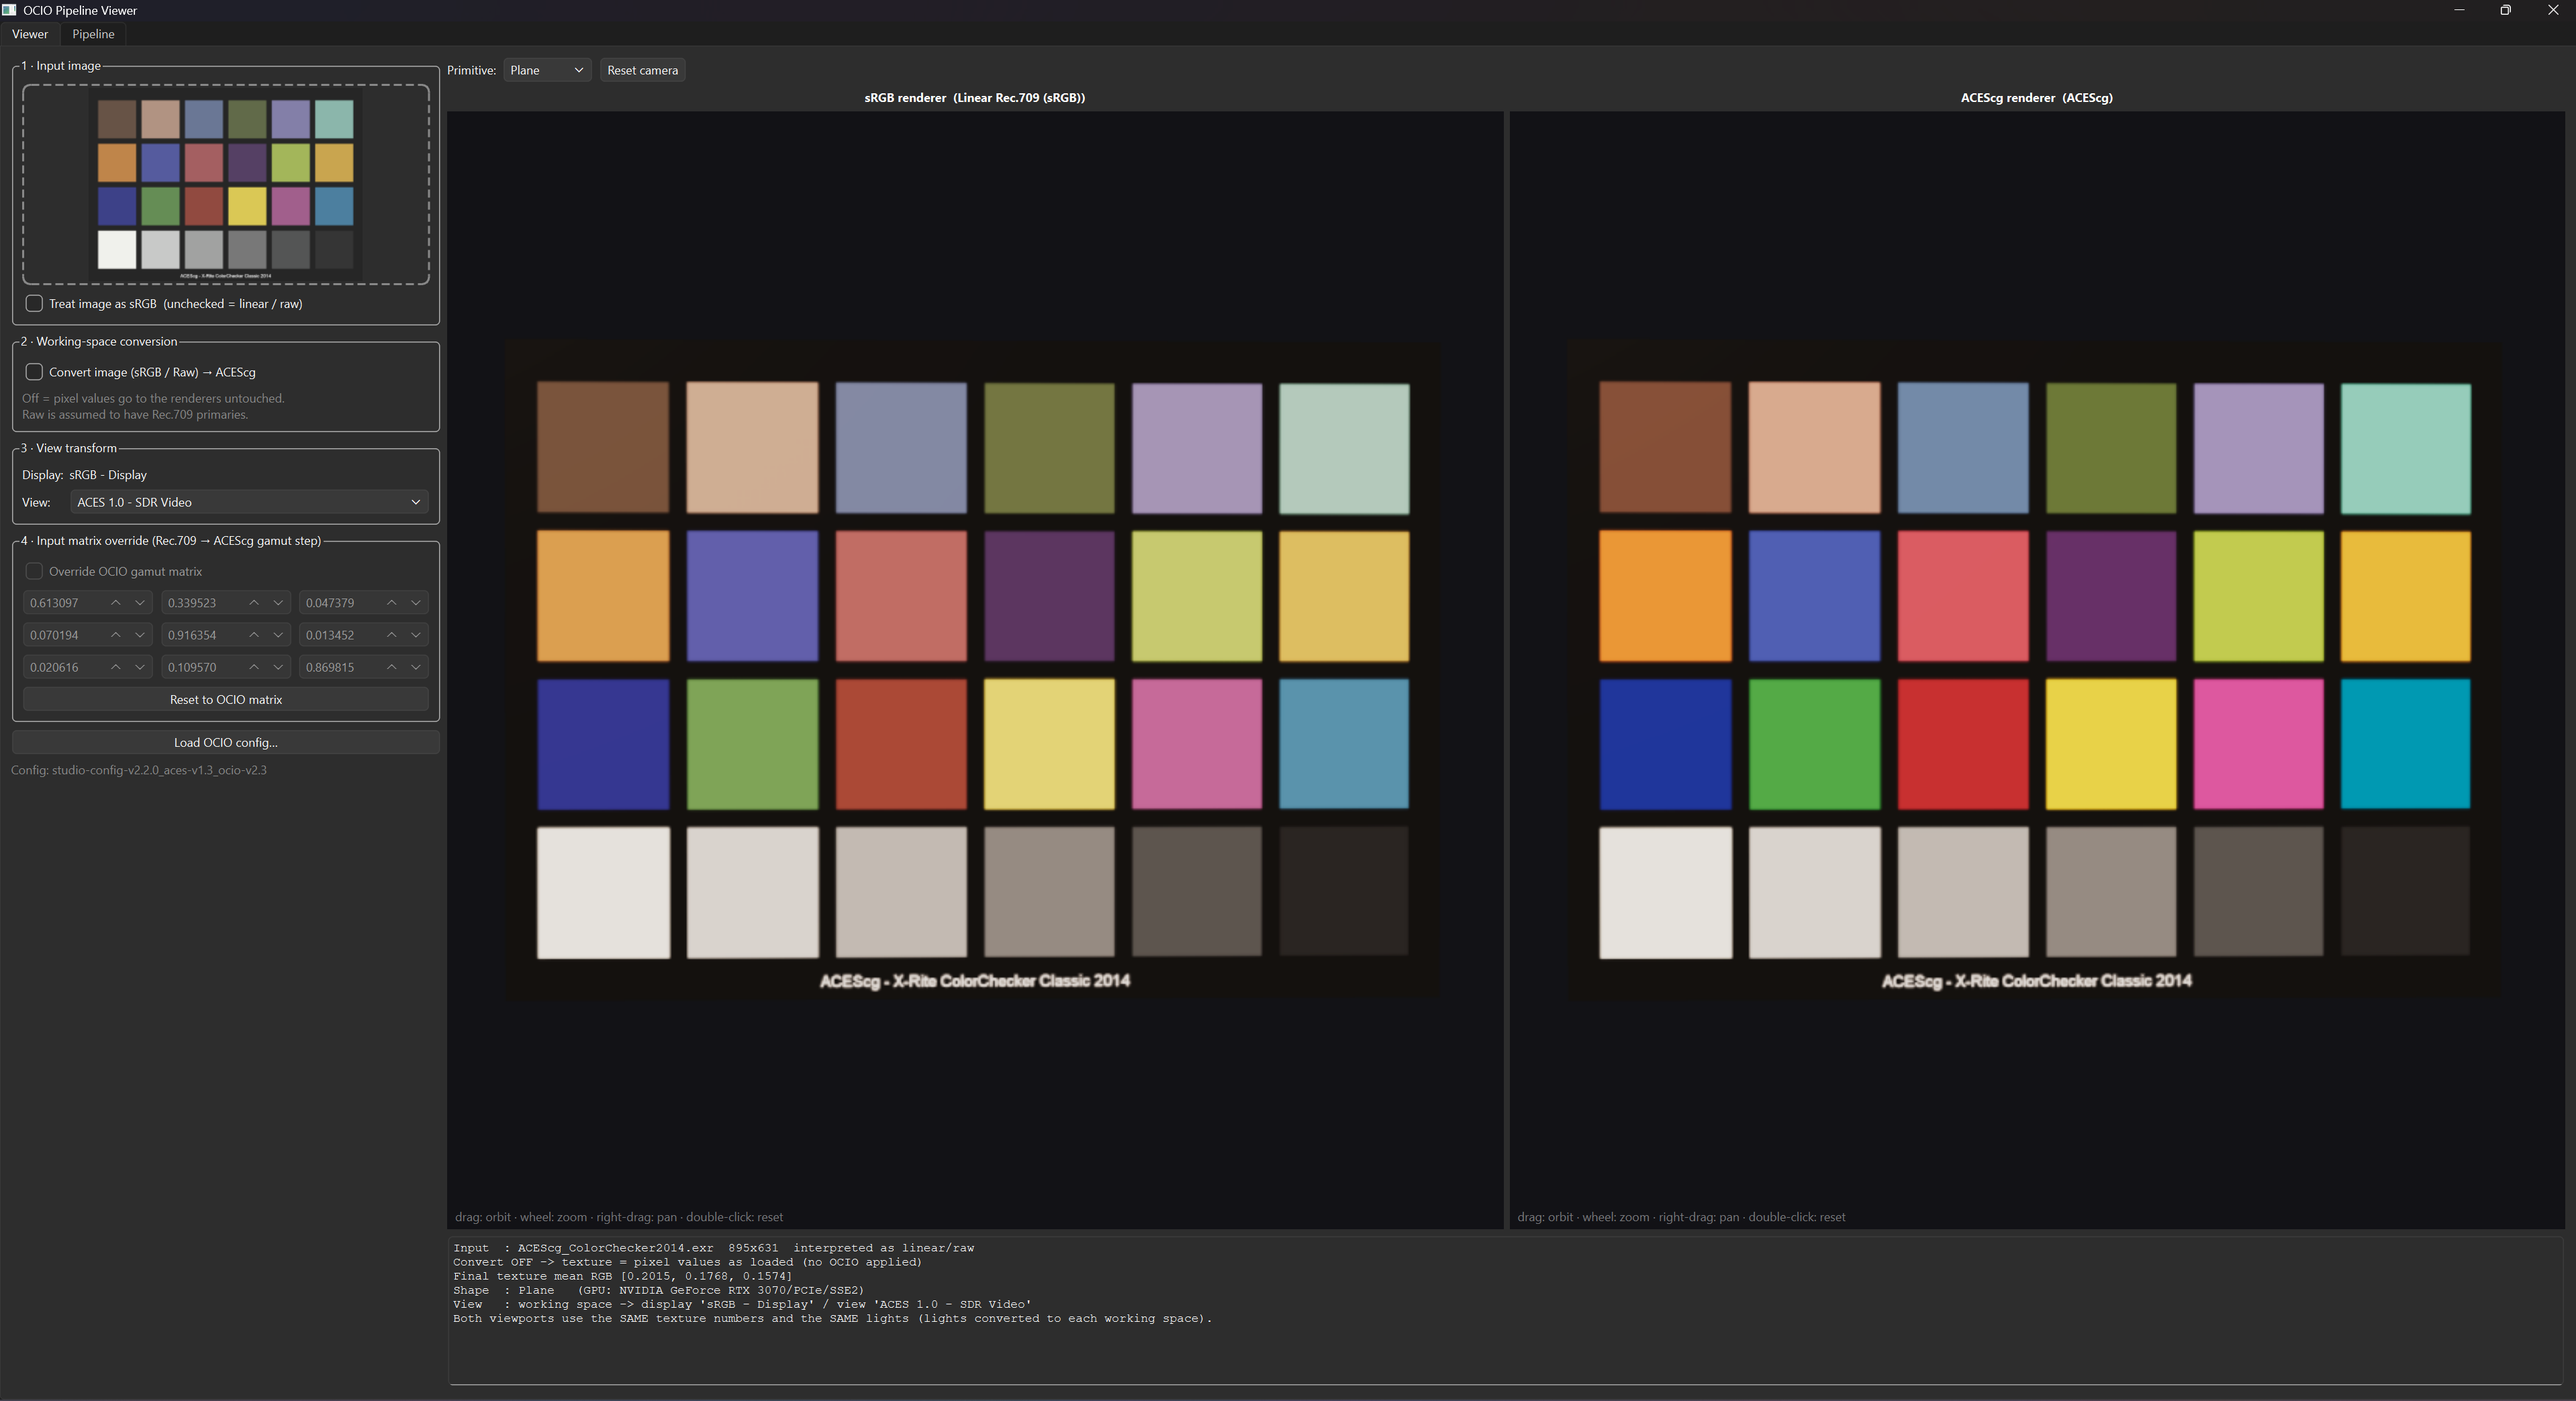
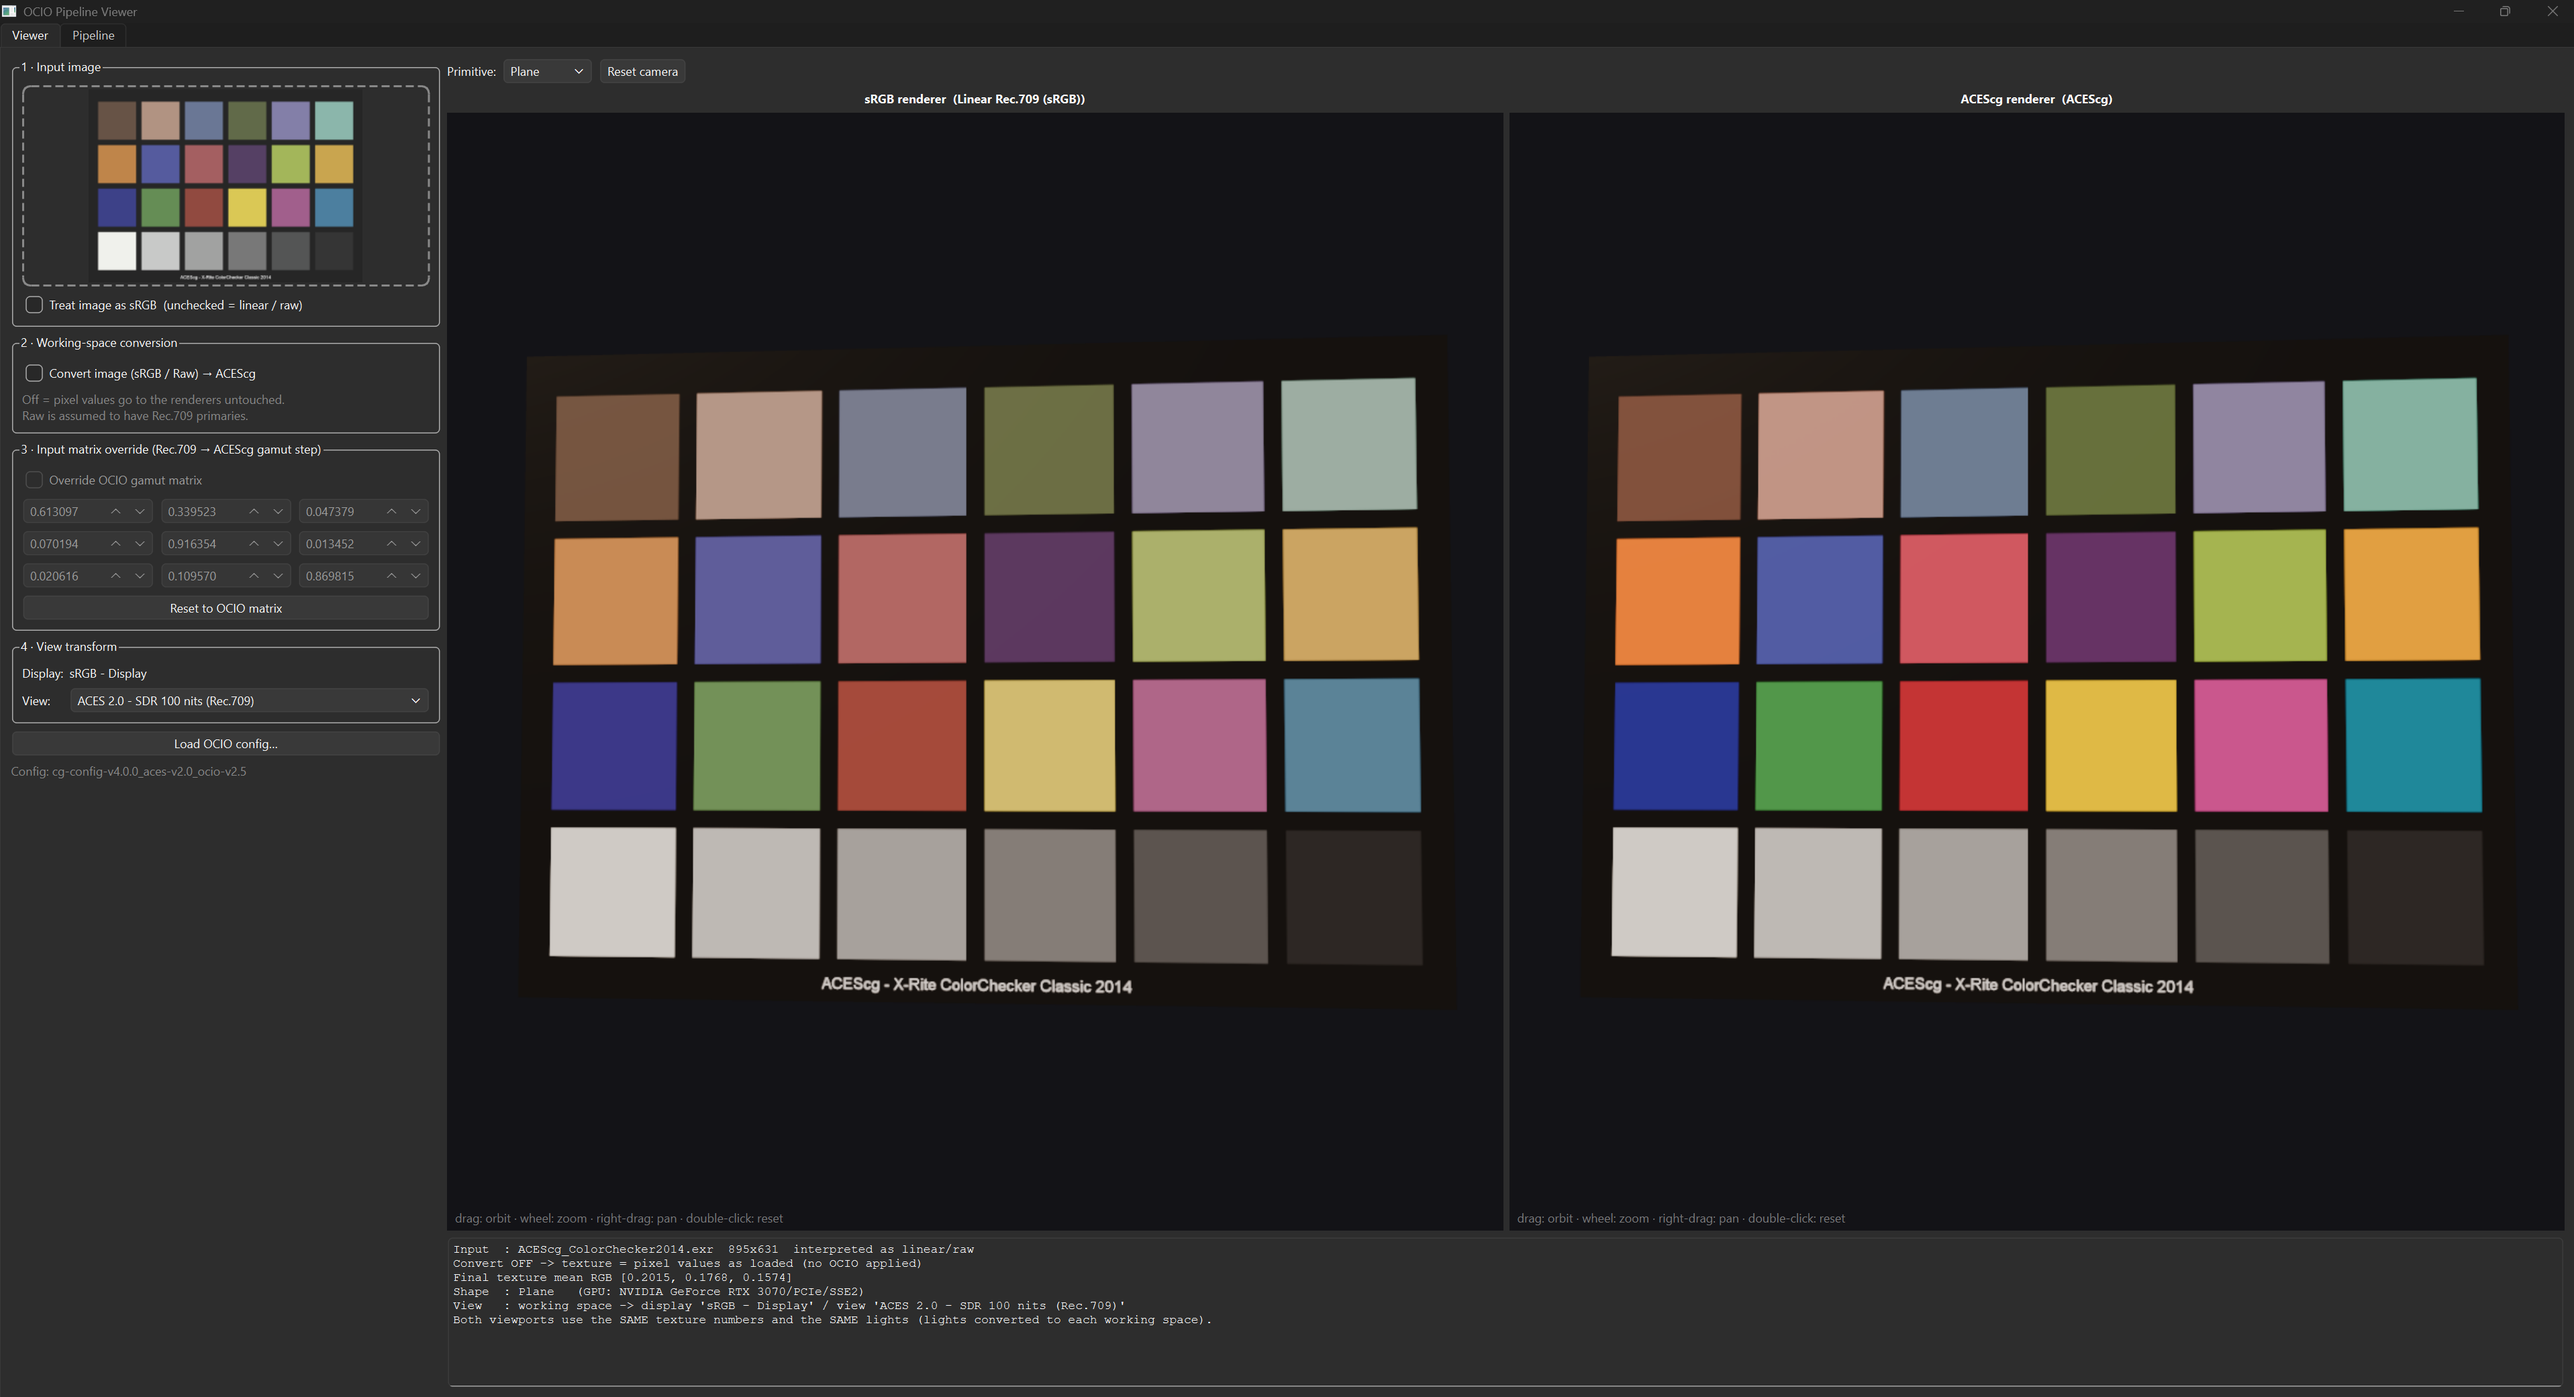
Updated screenshot

diff --git a/ocio_pipeline_viewer.py b/ocio_pipeline_viewer.py
@@ -25,7 +25,7 @@ from PIL import Image
 from PySide6 import QtCore, QtGui, QtWidgets
 
 DEFAULT_CONFIG = "ocio://cg-config-latest"  # built-in config (OCIO >= 2.3)
-MAX_RENDER_SIZE = 720  # longest side of the rendered image, in pixels
+MAX_RENDER_SIZE = 1024  # longest side of the rendered image, in pixels
 MAX_TEX_SIZE = 1024
 
 # Candidate colour-space names/aliases across the built-in ACES CG/Studio configs
